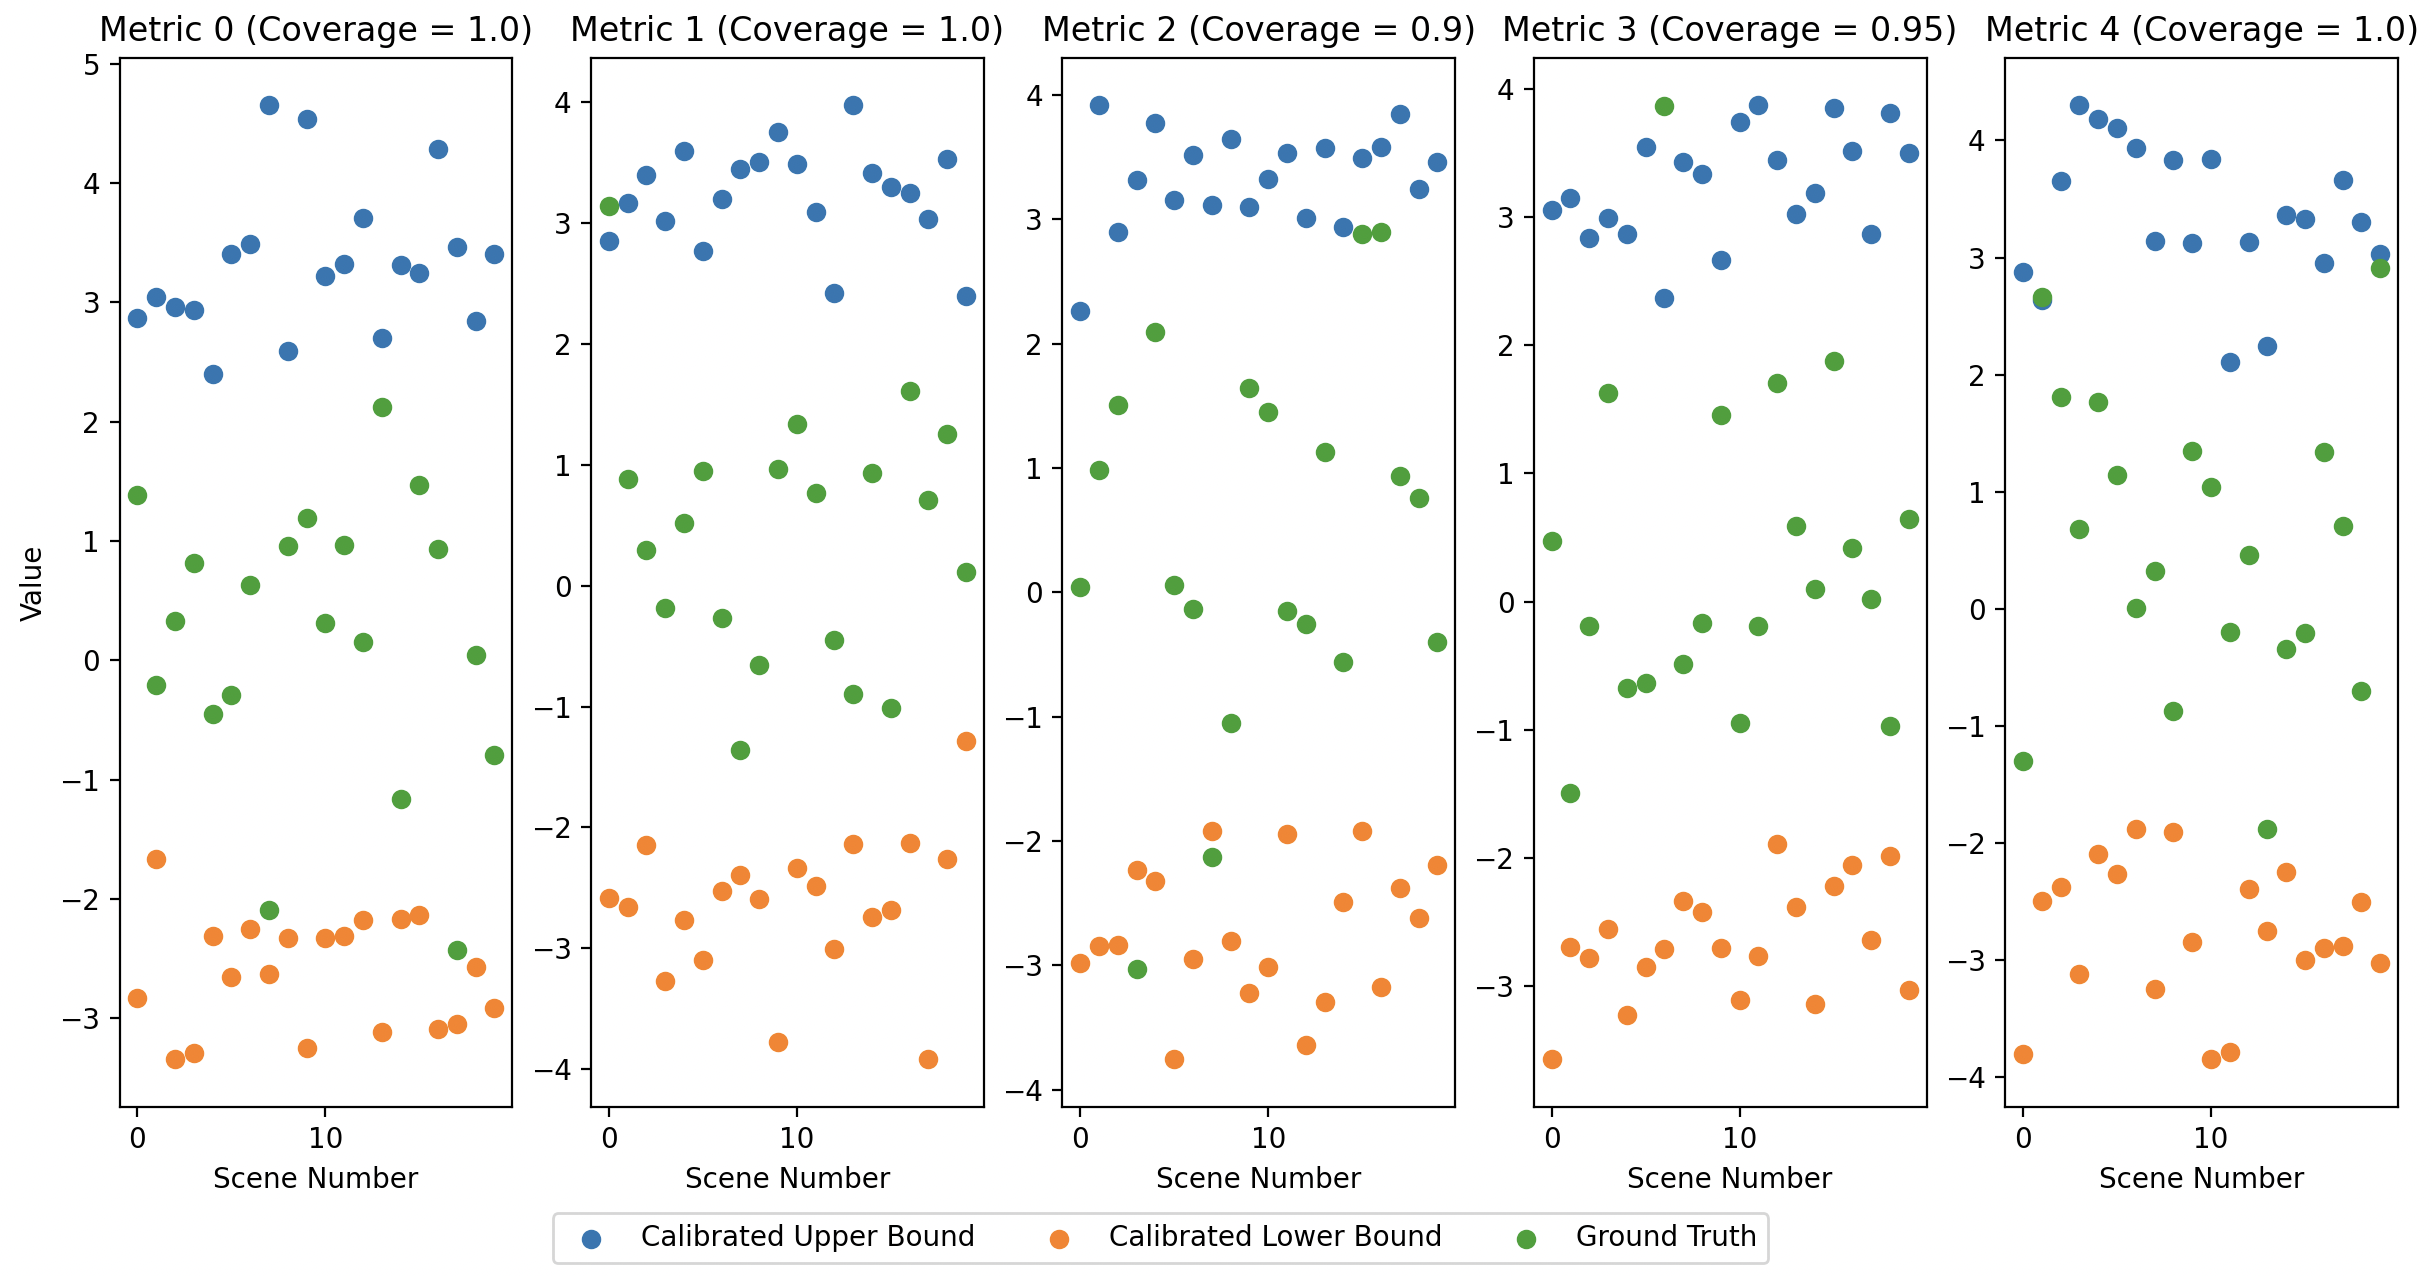
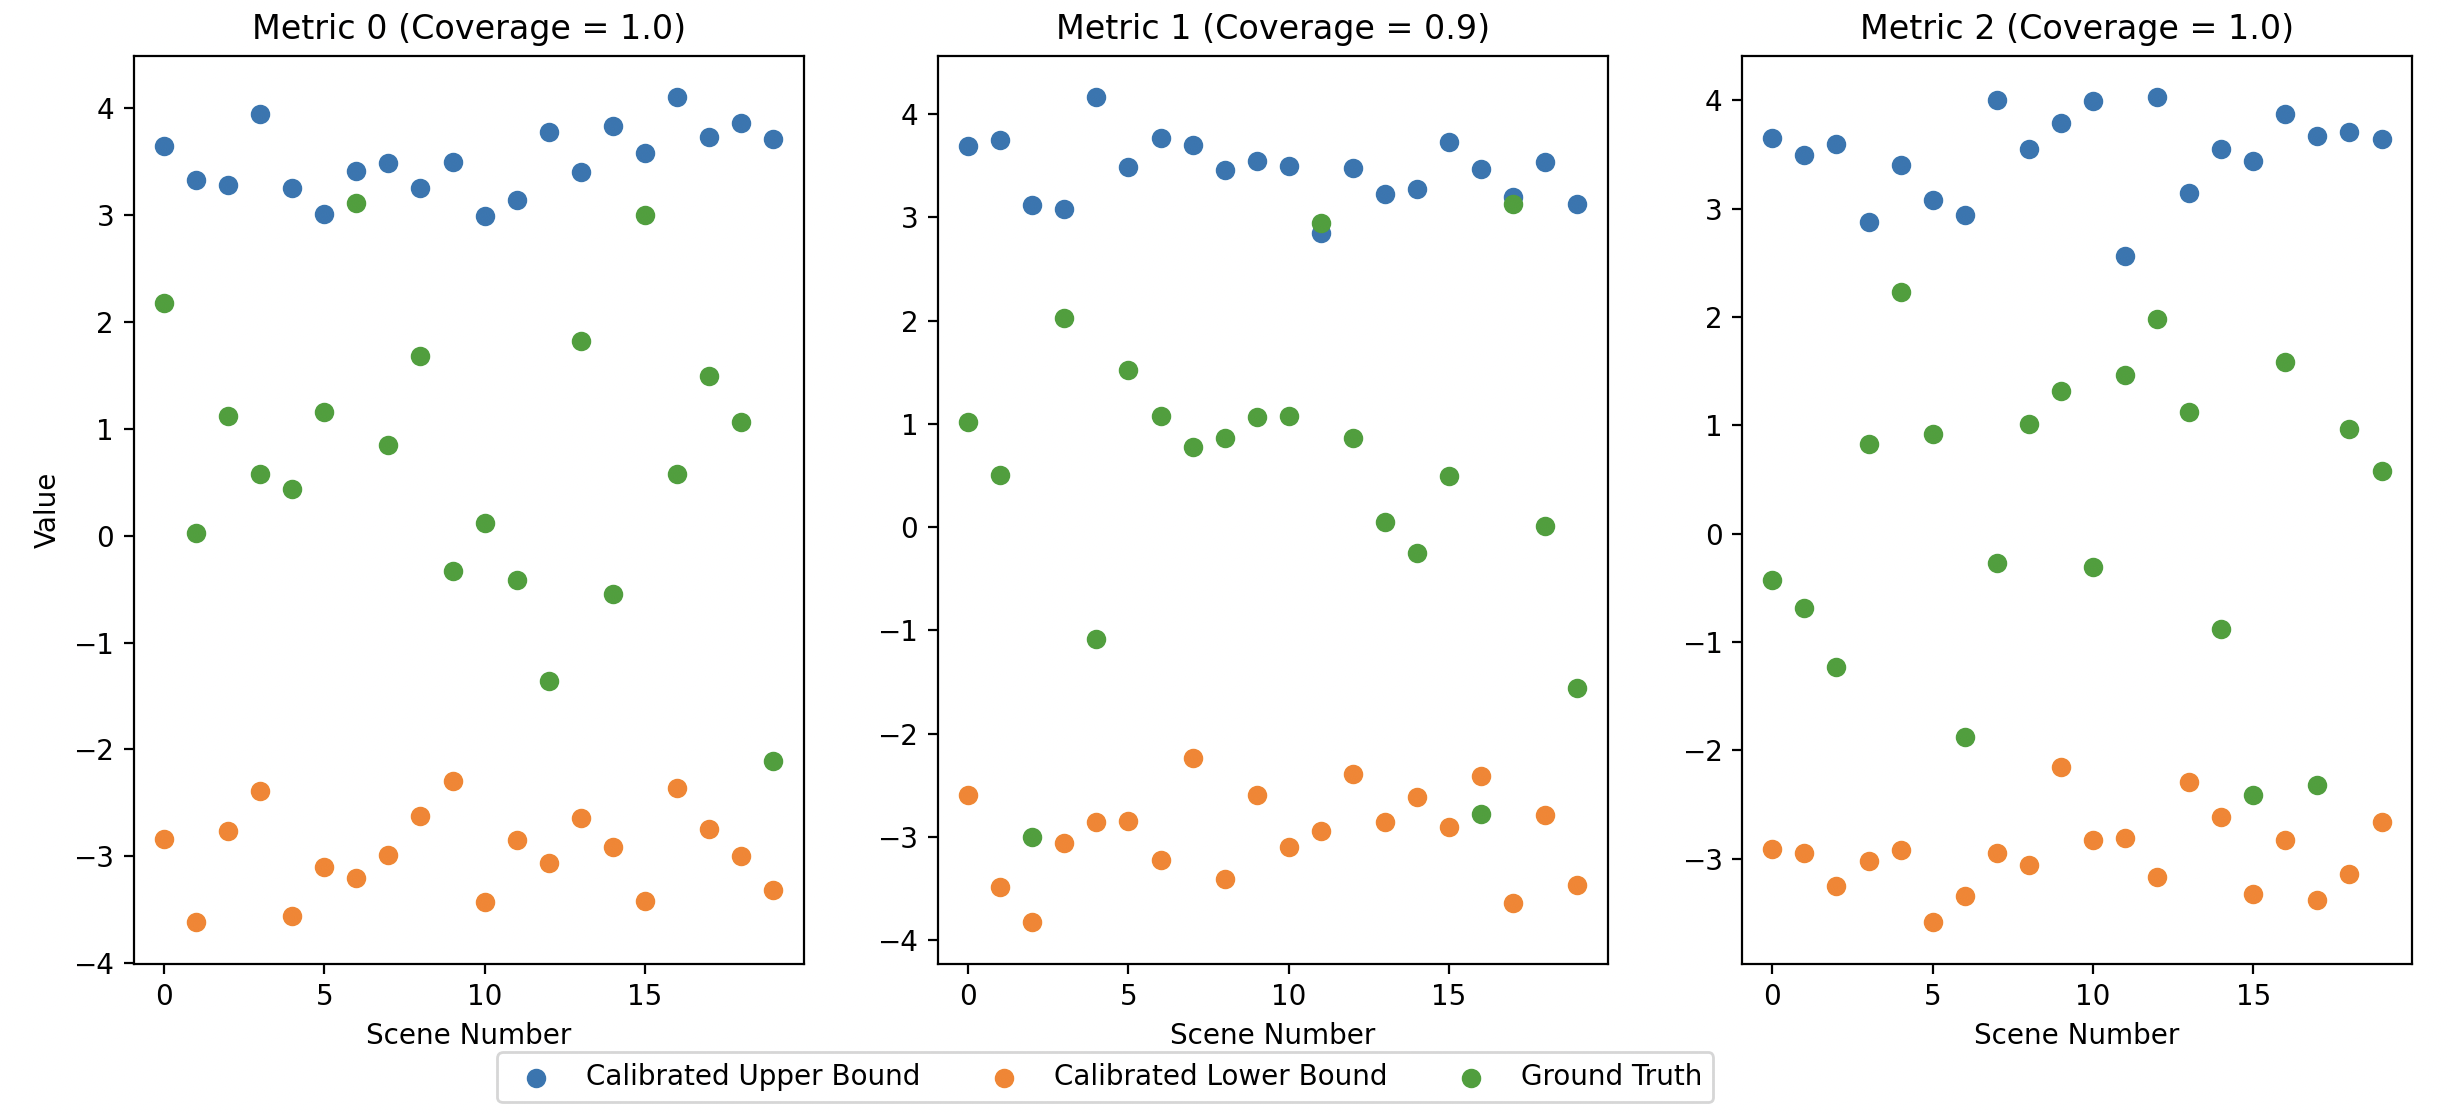
fixed scatter plot bug

diff --git a/main.py b/main.py
@@ -2,10 +2,10 @@ from mg import MetricGuidance
 import numpy as np
 import matplotlib.pyplot as plt
 
-alpha = 0.1
+alpha = 0.2
 n_calib, n_test = 10000, 20
 n_recons = 50
-n_metrics = 5
+n_metrics = 3
 metric_names = ['Metric ' + str(i) for i in range(n_metrics)]
 calib_est_dim = (n_calib, n_recons, n_metrics)
 calib_gt_dim = (n_calib, n_metrics)
@@ -45,19 +45,15 @@ print('Avg LB Retrieval Error: ', lb_errs.mean(0))
 
 # scatter plot upper and lower bounds for each scene and metric
 x_scatter = np.arange(test_gt.shape[0])
-if ub_vals.shape[2] != 1:
-	ub_scatter = np.diagonal(ub_vals, axis1=2)
-	lb_scatter = np.diagonal(lb_vals, axis1=2)
-else:
-	ub_scatter = ub_vals
-	lb_scatter = lb_vals
-fig, ax = plt.subplots(1, ub_vals.shape[1])
-for i in range(ub_vals.shape[1]):
-	if ub_vals.shape[1] != 1:
+ub_scatter = Ct_ub
+lb_scatter = Ct_lb
+fig, ax = plt.subplots(1, Ct_ub.shape[1])
+for i in range(Ct_ub.shape[1]):
+	if Ct_ub.shape[1] != 1:
 		ax[i].scatter(x_scatter, ub_scatter[..., i], label='Calibrated Upper Bound')
 		ax[i].scatter(x_scatter, lb_scatter[..., i], label='Calibrated Lower Bound')
 		ax[i].scatter(x_scatter, test_gt[..., i], label='Ground Truth')
-		ax[i].set_title(metric_names[i] + ' (Coverage = ' + str(np.round(cb.coverages['ct'][i], 2))+')')
+		ax[i].set_title(metric_names[i] + ' (Coverage = ' + str(np.round(cb.coverages['ct'][i], 3))+')')
 		ax[i].set_xlabel('Scene Number')
 		if i==0:
 			ax[i].set_ylabel('Value')
@@ -69,8 +65,9 @@ for i in range(ub_vals.shape[1]):
 		ax.set_xlabel('Scene Number')
 		ax.set_ylabel('Value')			
 
-if ub_vals.shape[1] != 1:
-	ax[int(ub_vals.shape[1]/2)].legend(loc='center', bbox_to_anchor=(0, -0.625, 0.5, 1.0), ncol=3)
+if Ct_ub.shape[1] != 1:
+	ax[int(Ct_ub.shape[1]/2)].legend(loc='center', bbox_to_anchor=(0, -0.625, 0.5, 1.0), ncol=3)
 else:
 	ax.legend()
 plt.show()
+

diff --git a/mg.py b/mg.py
@@ -247,5 +247,4 @@ class MetricGuidance:
 			- coverage: testing dataset coverage for each metric [0, 1]
 				- type: np.array of size (n_metrics, )
 		"""
-
 		return np.sum((gt >= lb) & (gt <= ub), axis=0)/gt.shape[0]
